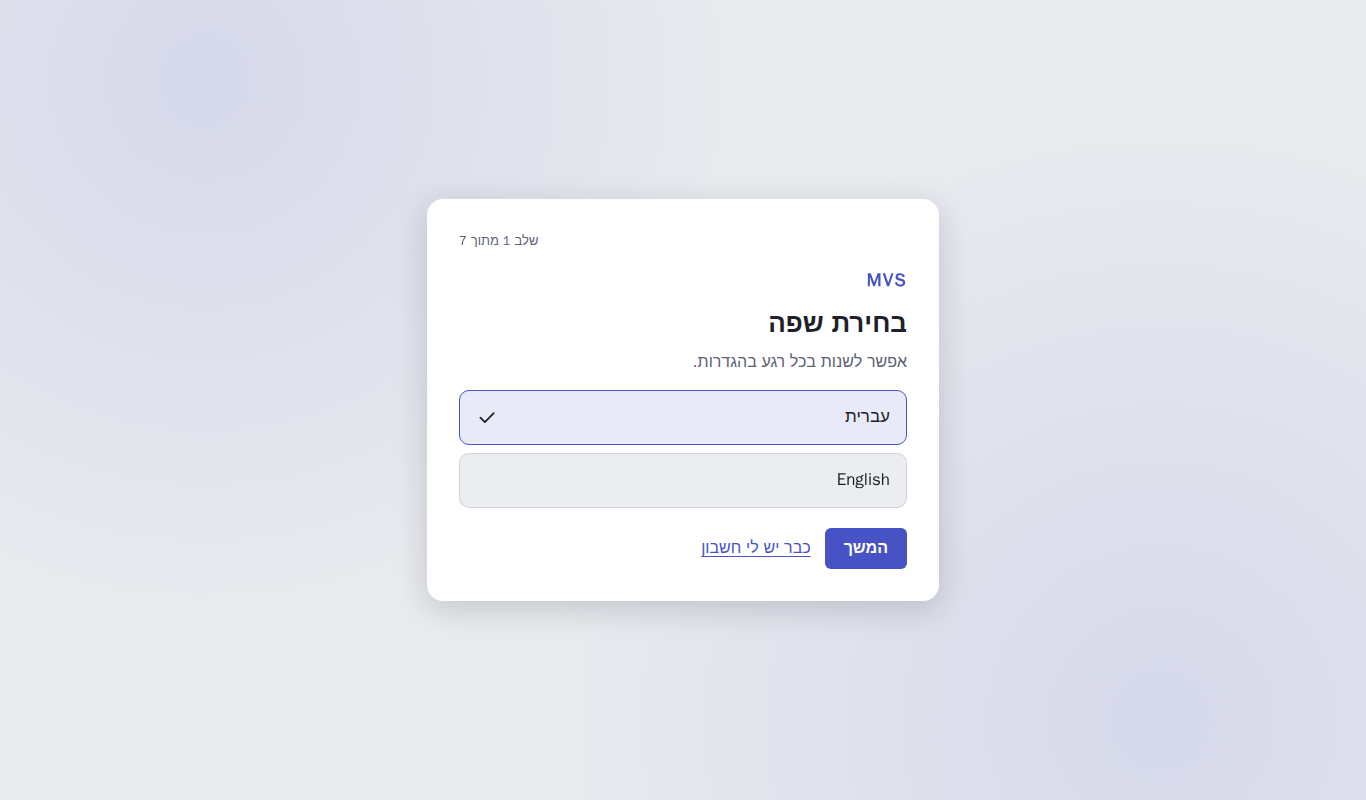
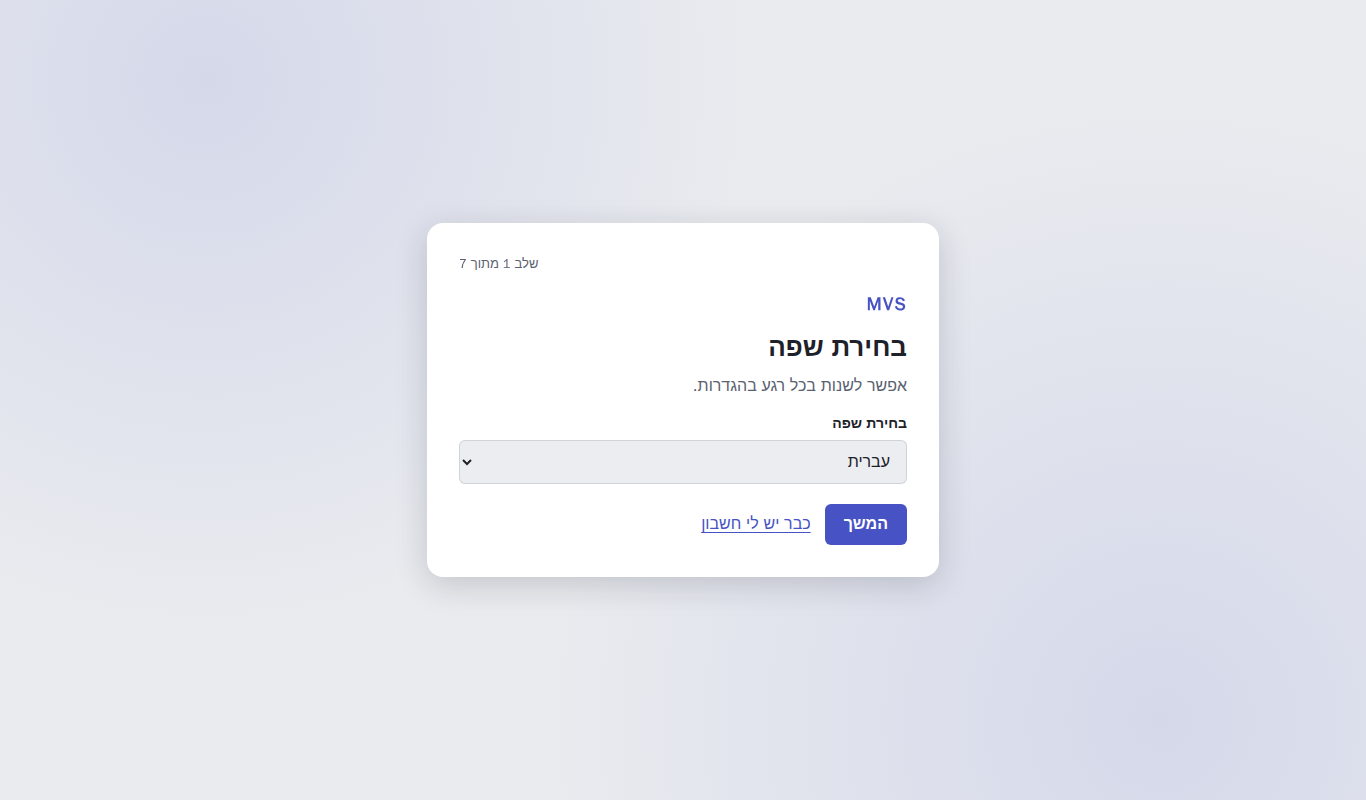
ui: interface language: system language else English; a picker driven by a language registry (0.4.1)

Changed region(s): [[0.3075, 0.3438, 0.7072, 0.75], [0.3075, 0.25, 0.7072, 0.3438]]

diff --git a/ui/src/app/settings.tsx b/ui/src/app/settings.tsx
@@ -1,7 +1,7 @@
 import { createContext, useCallback, useContext, useEffect, useMemo, useRef, useState, type ReactNode } from 'react';
 import { FormattedNumber, IntlProvider } from 'react-intl';
 import type { Locale } from '../core/types';
-import { directionOf, messagesFor } from '../i18n';
+import { directionOf, LOCALES, messagesFor, pickLocale } from '../i18n';
 import { cleanOrder } from './serverOrder';
 import { cleanNotifyPrefs, type NotifyPrefs } from './notify';
 
@@ -28,8 +28,8 @@ const SCALE_STEP = 0.1;
 const STORAGE_KEY = 'mvp.settings.v1';
 
 export function defaultSettings(languages: readonly string[] = typeof navigator !== 'undefined' ? navigator.languages : []): Settings {
-  const he = languages.some((l) => l.toLowerCase().startsWith('he') || l.toLowerCase().startsWith('iw'));
-  return { locale: he || languages.length === 0 ? 'he' : 'en', theme: 'system', uiScale: 1, fontSize: 15 };
+  // The system language when we have it; otherwise English (owner, 0.4.1).
+  return { locale: pickLocale(languages), theme: 'system', uiScale: 1, fontSize: 15 };
 }
 
 const clamp = (v: number, lo: number, hi: number) => Math.min(hi, Math.max(lo, v));
@@ -49,13 +49,13 @@ function load(): Settings {
   // Stored values are checked one by one; anything odd falls back to the default.
   const num = (v: unknown, lo: number, hi: number, d: number) => (typeof v === 'number' && Number.isFinite(v) ? clamp(v, lo, hi) : d);
   return {
-    locale: stored.locale === 'he' || stored.locale === 'en' ? stored.locale : base.locale,
+    locale: LOCALES.includes(stored.locale as Locale) ? (stored.locale as Locale) : base.locale,
     theme: stored.theme === 'light' || stored.theme === 'dark' || stored.theme === 'system' ? stored.theme : base.theme,
     uiScale: num(stored.uiScale, SCALE_MIN, SCALE_MAX, base.uiScale),
     fontSize: num(stored.fontSize, FONT_MIN, FONT_MAX, base.fontSize),
     serverOrder: cleanOrder(stored.serverOrder),
     notify: cleanNotifyPrefs(stored.notify),
-    ...(lang === 'he' || lang === 'en' ? { locale: lang } : {}),
+    ...(LOCALES.includes(lang as Locale) ? { locale: lang as Locale } : {}),
     ...(theme === 'light' || theme === 'dark' ? { theme } : {}),
   };
 }

diff --git a/ui/src/screens/onboarding/Onboarding.tsx b/ui/src/screens/onboarding/Onboarding.tsx
@@ -3,13 +3,13 @@ import { FormattedMessage, useIntl } from 'react-intl';
 import { ageOn, countryOptions, detectCountry, MIN_AGE, toBirthDate } from '../../app/age';
 import { useAppStore } from '../../app/App';
 import { useSettings } from '../../app/settings';
-import { isCoreError, useCore, useCoreEvent, type Identity, type Locale } from '../../core';
+import { isCoreError, useCore, useCoreEvent, type Identity } from '../../core';
 import type { CoreEvents } from '../../core/api';
 import { useUserTextProps } from '../../app/textDir';
 import { safeImageSrc } from '../../core/sanitize';
 import { Avatar, Code } from '../../components/common';
 import { CheckIcon } from '../../components/icons';
-import { LOCALES } from '../../i18n';
+import { LanguagePicker } from '../../components/LanguagePicker';
 import { RecoveryCheck, RecoveryWordsPanel } from './RecoveryWords';
 import { RestoreScreen } from './Restore';
 
@@ -226,7 +226,6 @@ function StepBody({ children }: { children: ReactNode }) {
 }
 
 function LanguageStep({ onNext, onRestore }: { onNext: () => void; onRestore: () => void }) {
-  const { settings, update } = useSettings();
   const intl = useIntl();
   return (
     <>
@@ -239,22 +238,7 @@ function LanguageStep({ onNext, onRestore }: { onNext: () => void; onRestore: ()
       <p className="muted">
         <FormattedMessage id="onb.language.hint" />
       </p>
-      <div className="choice-list" role="radiogroup" aria-label={intl.formatMessage({ id: 'onb.language.title' })}>
-        {LOCALES.map((l: Locale) => (
-          <button
-            key={l}
-            type="button"
-            role="radio"
-            aria-checked={settings.locale === l}
-            className="choice"
-            lang={l}
-            onClick={() => update({ locale: l })}
-          >
-            <FormattedMessage id={`lang.${l}`} />
-            {settings.locale === l && <CheckIcon />}
-          </button>
-        ))}
-      </div>
+      <LanguagePicker label={intl.formatMessage({ id: 'onb.language.title' })} />
       <div className="actions">
         <button type="button" className="primary" onClick={onNext}>
           <FormattedMessage id="common.next" />

diff --git a/ui/src/i18n/index.ts b/ui/src/i18n/index.ts
@@ -4,14 +4,36 @@ import he from './he.json';
 
 export type MessageId = keyof typeof he;
 
-const catalogs: Record<Locale, Record<string, string>> = { he, en };
+/**
+ * The available interface languages. Adding one is one entry here (and its
+ * catalog): the language picker, the default and the direction follow.
+ * `name` is the language's own name, as the picker shows it.
+ */
+export const LANGUAGES: { code: Locale; name: string; dir: 'rtl' | 'ltr'; messages: Record<string, string> }[] = [
+  { code: 'en', name: 'English', dir: 'ltr', messages: en },
+  { code: 'he', name: 'עברית', dir: 'rtl', messages: he },
+];
 
-export const LOCALES: Locale[] = ['he', 'en'];
+export const LOCALES: Locale[] = LANGUAGES.map((l) => l.code);
+
+/** The default when the system language isn't one we have. */
+export const FALLBACK_LOCALE: Locale = 'en';
 
 export function messagesFor(locale: Locale): Record<string, string> {
-  return catalogs[locale];
+  return (LANGUAGES.find((l) => l.code === locale) ?? LANGUAGES[0]).messages;
 }
 
 export function directionOf(locale: Locale): 'rtl' | 'ltr' {
-  return locale === 'he' ? 'rtl' : 'ltr';
+  return LANGUAGES.find((l) => l.code === locale)?.dir ?? 'ltr';
+}
+
+/** The first system language we have a catalog for, or English (owner, 0.4.1). */
+export function pickLocale(languages: readonly string[]): Locale {
+  for (const tag of languages) {
+    const base = tag.toLowerCase().split('-')[0];
+    const code = base === 'iw' ? 'he' : base; // old Hebrew tag
+    const hit = LANGUAGES.find((l) => l.code === code);
+    if (hit) return hit.code;
+  }
+  return FALLBACK_LOCALE;
 }

diff --git a/ui/src/test/language.test.tsx b/ui/src/test/language.test.tsx
@@ -1,0 +1,28 @@
+// 0.4.1: the system language when we have it, otherwise English; and a picker
+// listing every catalog in the registry, each in its own name.
+
+import { render, screen, within } from '@testing-library/react';
+import { describe, expect, it } from 'vitest';
+import { App } from '../app/App';
+import { defaultSettings } from '../app/settings';
+import { LANGUAGES, pickLocale } from '../i18n';
+import { MockCore } from '../core/mock';
+
+describe('interface language', () => {
+  it('uses the system language when we have it, otherwise English', () => {
+    expect(defaultSettings([]).locale).toBe('en');
+    expect(defaultSettings(['fr-FR', 'de']).locale).toBe('en');
+    expect(defaultSettings(['he-IL']).locale).toBe('he');
+    expect(defaultSettings(['iw']).locale).toBe('he');
+    expect(defaultSettings(['fr', 'he']).locale).toBe('he'); // the first one we have
+    expect(pickLocale(['en-GB'])).toBe('en');
+  });
+
+  it('the picker lists every language in the registry, each in its own name', async () => {
+    render(<App core={new MockCore({ speed: 0 })} initialSettings={{ locale: 'en', theme: 'light', uiScale: 1, fontSize: 15 }} />);
+    const select = await screen.findByRole('combobox', { name: 'Choose a language' });
+    const options = within(select).getAllByRole('option') as HTMLOptionElement[];
+    expect(options.map((o) => [o.value, o.textContent, o.lang])).toEqual(LANGUAGES.map((l) => [l.code, l.name, l.code]));
+    expect(options.map((o) => o.textContent)).toEqual(['English', 'עברית']);
+  });
+});

diff --git a/ui/src/screens/settings/SettingsScreen.tsx b/ui/src/screens/settings/SettingsScreen.tsx
@@ -6,7 +6,7 @@ import { useStore } from '../../app/store';
 import { useCore, type AppInfo, type StorageUsage } from '../../core';
 import { Avatar, Code, Dialog, Name, RICH } from '../../components/common';
 import { CheckIcon, ShieldIcon } from '../../components/icons';
-import { LOCALES } from '../../i18n';
+import { LanguagePicker } from '../../components/LanguagePicker';
 import { textDir, useUiDir } from '../../app/textDir';
 import { ProfileEditor, type ProfileEditorHandle } from './ProfileEditor';
 import { SignOutButton } from './SignOut';
@@ -164,26 +164,10 @@ function AccountSection({
 }
 
 function LanguageSection() {
-  const { settings, update } = useSettings();
   const intl = useIntl();
   return (
     <div className="stack">
-      <div className="choice-list" role="radiogroup" aria-label={intl.formatMessage({ id: 'settings.language.label' })}>
-        {LOCALES.map((l) => (
-          <button
-            key={l}
-            type="button"
-            role="radio"
-            aria-checked={settings.locale === l}
-            className="choice"
-            lang={l}
-            onClick={() => update({ locale: l })}
-          >
-            <FormattedMessage id={`lang.${l}`} />
-            {settings.locale === l && <CheckIcon />}
-          </button>
-        ))}
-      </div>
+      <LanguagePicker label={intl.formatMessage({ id: 'settings.language.label' })} />
       <p className="muted small">
         <FormattedMessage id="settings.instant" />
       </p>

diff --git a/ui/src/components/LanguagePicker.tsx b/ui/src/components/LanguagePicker.tsx
@@ -1,0 +1,25 @@
+// The interface language, picked from a list (owner, 0.4.1). The options come
+// from the catalog registry (i18n/index.ts), each in its own name, so adding a
+// language is one registry entry.
+
+import { useId } from 'react';
+import { useSettings } from '../app/settings';
+import { LANGUAGES } from '../i18n';
+import type { Locale } from '../core/types';
+
+export function LanguagePicker({ label }: { label: string }) {
+  const { settings, update } = useSettings();
+  const id = useId();
+  return (
+    <label className="field language-picker" htmlFor={id}>
+      <span>{label}</span>
+      <select id={id} value={settings.locale} onChange={(e) => update({ locale: e.target.value as Locale })}>
+        {LANGUAGES.map((l) => (
+          <option key={l.code} value={l.code} lang={l.code} dir={l.dir}>
+            {l.name}
+          </option>
+        ))}
+      </select>
+    </label>
+  );
+}

diff --git a/ui/src/test/app.test.tsx b/ui/src/test/app.test.tsx
@@ -30,7 +30,8 @@ describe('app', () => {
 
   it('switches to English and LTR', async () => {
     render(<App core={new MockCore({ speed: 0 })} initialSettings={he} />);
-    fireEvent.click(await screen.findByRole('radio', { name: 'English' }));
+    // A list, each language in its own name (0.4.1).
+    fireEvent.change(await screen.findByRole('combobox', { name: 'בחירת שפה' }), { target: { value: 'en' } });
     expect(await screen.findByRole('heading', { name: 'Choose a language' })).toBeTruthy();
     expect(document.documentElement.dir).toBe('ltr');
   });

diff --git a/ui/src/styles/app.css b/ui/src/styles/app.css
@@ -3127,3 +3127,8 @@ input.switch:disabled {
 .mention-suggestions li:hover {
   background: var(--bg-active);
 }
+
+/* The interface language: a list, each language in its own name (0.4.1). */
+.language-picker select {
+  min-height: 2.75rem;
+}
